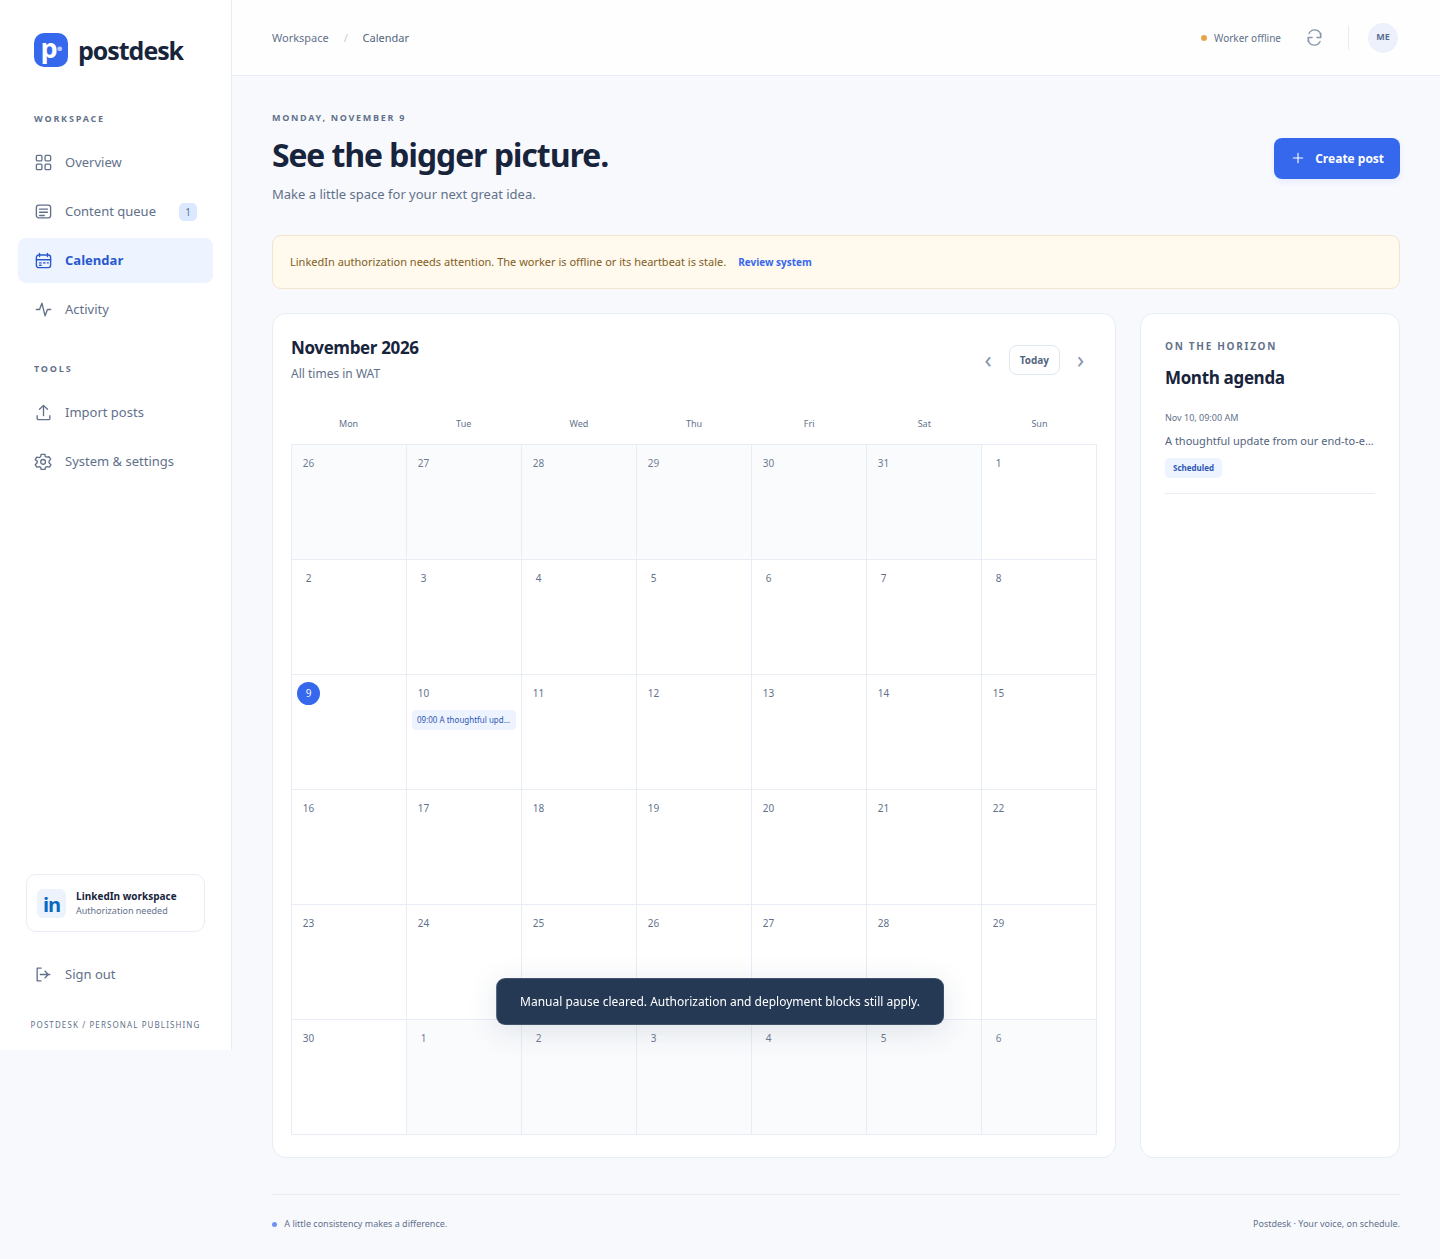
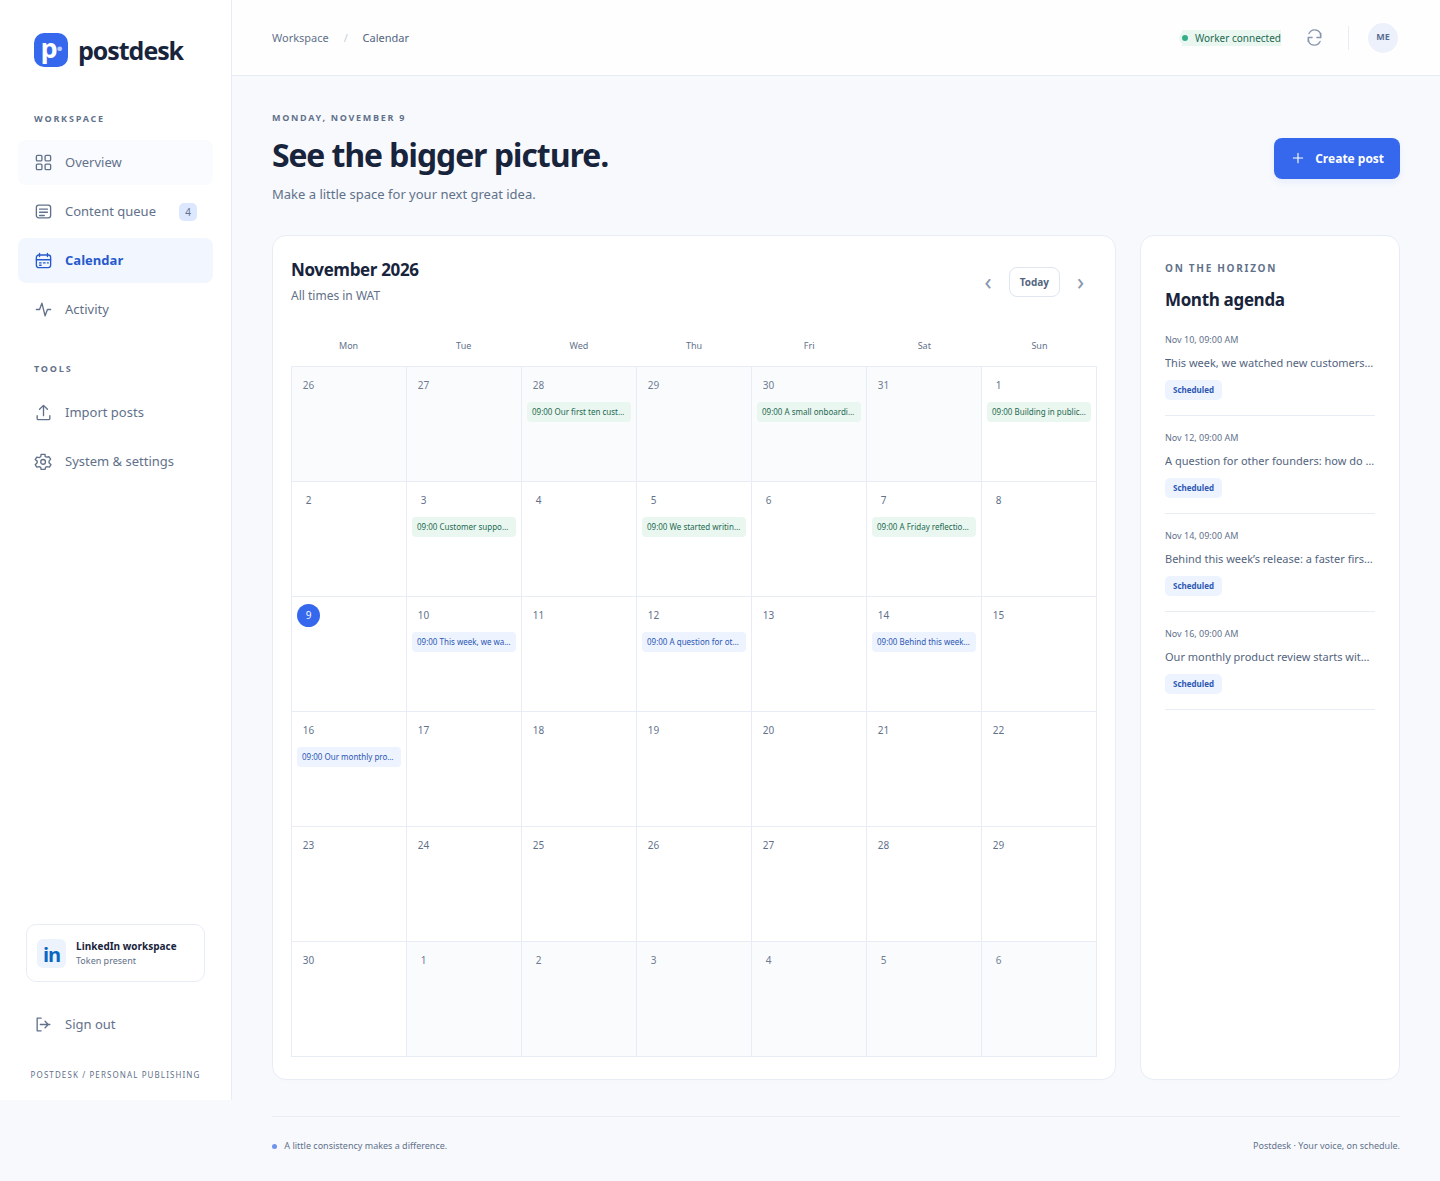
docs: refresh previews with realistic healthy demo workspace

diff --git a/scripts/capture_previews.py b/scripts/capture_previews.py
@@ -1,0 +1,117 @@
+"""Capture README screenshots using an explicitly fictional, isolated demo.
+
+Run: venv/bin/python scripts/capture_previews.py
+Requires requirements-dev.txt and Chrome/Chromium. No real token, worker,
+publishing request, or production database is used. Connection state is simulated.
+"""
+import os
+import sys
+import tempfile
+import threading
+from datetime import datetime,timedelta
+from pathlib import Path
+
+PROJECT=Path(__file__).resolve().parents[1]
+sys.path.insert(0,str(PROJECT))
+FOUNDER_POST=(
+    'This week, we watched new customers try our onboarding.\n\n'
+    'Four conversations revealed the same sticking point. So we removed two steps '
+    'and rewrote the first screen.\n\n'
+    'A useful reminder: the next improvement might already be in your support inbox.\n\n'
+    'What have your customers taught you this week?'
+)
+
+
+def main():
+    from playwright.sync_api import sync_playwright,expect
+    with tempfile.TemporaryDirectory(prefix='postdesk-preview-') as folder:
+        runtime=Path(folder)
+        os.environ.update(APP_ENV_FILE=str(runtime/'.env'),APP_DATA_DIR=str(runtime/'data'),
+            APP_MEDIA_DIR=str(runtime/'media'),APP_LOG_DIR=str(runtime/'logs'),APP_BACKUP_DIR=str(runtime/'backups'),
+            DB_PATH=str(runtime/'data/posts.db'),TOKEN_PATH=str(runtime/'data/token.json'),
+            APP_PASSWORD='isolated-demo-password',COOKIE_SECURE='false',RESEND_API_KEY='',SMTP_HOST='',ALERT_TO='')
+        from app import config,db,linkedin
+        from app.dashboard import create_app
+        from waitress import create_server
+        # Explicit demo fixture, not a credential or a claim about a real LinkedIn account.
+        linkedin.token_days_left=lambda:42
+        app=create_app()
+        now=datetime.now()
+        published=[
+            'Our first ten customer conversations changed our product roadmap. Here are the three questions we keep asking.',
+            'A small onboarding improvement we nearly overlooked: showing people their next step instead of another empty dashboard.',
+            'Building in public means sharing the small decisions too. This week, we chose clarity over one more feature.',
+            'Customer support is part of product discovery. We now review recurring questions before planning our next sprint.',
+            'We started writing release notes for the people using the product, rather than the people building it. The difference is worth the effort.',
+            'A Friday reflection: shipping a smaller improvement and learning from real use helped us make a better decision for next week.',
+        ]
+        future=[FOUNDER_POST,
+            'A question for other founders: how do you decide which customer requests deserve a place on your roadmap?',
+            'Behind this week’s release: a faster first-run experience, clearer labels, and one less setting to configure.',
+            'Our monthly product review starts with what customers found confusing. Here is how we turn those notes into improvements.']
+        with db.conn() as c:
+            for index,text in enumerate(published):
+                stamp=(now-timedelta(days=12-index*2)).replace(hour=9,minute=0,second=0).strftime(db.FMT)
+                cur=c.execute('INSERT INTO posts(text,status,scheduled_at,posted_at,created_at) VALUES(?,?,?,?,?)',
+                    (text,'posted',stamp,stamp,stamp))
+                c.execute('INSERT INTO audit_events(action,post_id,detail,actor,created_at) VALUES(?,?,?,?,?)',
+                    ('attempt.posted',cur.lastrowid,'Published to your LinkedIn profile','worker',stamp))
+            for index,text in enumerate(future):
+                stamp=(now+timedelta(days=1+index*2)).replace(hour=9,minute=0,second=0).strftime(db.FMT)
+                c.execute('INSERT INTO posts(text,status,scheduled_at) VALUES(?,?,?)',(text,'scheduled',stamp))
+            for text in ['The customer interview questions we keep coming back to.',
+                         'Three lessons from simplifying our pricing page.',
+                         'A look inside our weekly product review.']:
+                c.execute("INSERT INTO posts(text,status) VALUES(?,'draft')",(text,))
+        db.heartbeat()
+        stop=threading.Event()
+        def heartbeat():
+            while not stop.wait(1):db.heartbeat()
+        pulse=threading.Thread(target=heartbeat,daemon=True)
+        server=create_server(app,host='127.0.0.1',port=0)
+        pulse.start()
+        serving=threading.Thread(target=server.run,daemon=True);serving.start()
+        try:
+            with sync_playwright() as p:
+                chrome=os.getenv('CHROME_BIN','/usr/bin/google-chrome')
+                browser=p.chromium.launch(executable_path=chrome if Path(chrome).exists() else None,headless=True,args=['--no-sandbox'])
+                page=browser.new_page(viewport={'width':1440,'height':1100},device_scale_factor=1)
+                errors=[];page.on('pageerror',lambda e:errors.append(str(e)))
+                page.goto(f'http://127.0.0.1:{server.effective_port}')
+                page.locator('#password').fill(config.APP_PASSWORD)
+                page.locator('#login-form button').click()
+                expect(page.locator('#workspace')).to_be_visible()
+                expect(page.locator('#stat-posted')).to_have_text('6')
+                # Keep the illustrative activity feed focused on publishing, not this capture login.
+                with db.conn() as c:
+                    c.execute("DELETE FROM audit_events WHERE action LIKE 'session.%'")
+                page.locator('#refresh').click()
+                expect(page.locator('#recent-events .event-row').first).to_contain_text('Post published')
+                expect(page.locator('#worker-indicator')).to_have_text('Worker connected')
+                expect(page.locator('#worker-badge')).to_have_text('online')
+                expect(page.locator('#notice')).to_be_hidden()
+                expect(page.locator('#stat-posted')).to_have_text('6')
+                expect(page.locator('#stat-scheduled')).to_have_text('4')
+                expect(page.locator('#stat-draft')).to_have_text('3')
+                expect(page.locator('#stat-attention')).to_have_text('0')
+                expect(page.locator('#next-post')).to_contain_text('Four conversations revealed the same sticking point.')
+                output=PROJECT/'docs'
+                page.screenshot(path=str(output/'dashboard-preview.png'),full_page=True)
+                page.locator('#new-post').click()
+                page.locator('#post-text').fill(FOUNDER_POST)
+                expect(page.locator('#preview-text')).to_have_text(FOUNDER_POST)
+                page.screenshot(path=str(output/'composer-preview.png'),full_page=True)
+                page.once('dialog',lambda dialog:dialog.accept())
+                page.locator('#close-editor').click()
+                page.locator('.nav-item[data-view="calendar"]').click()
+                expect(page.locator('.calendar-day')).to_have_count(42)
+                page.screenshot(path=str(output/'calendar-preview.png'),full_page=True)
+                assert not errors,errors
+                browser.close()
+                print('Captured healthy demo overview (6 published / 4 scheduled / 3 drafts), founder-style composer, and calendar. No external API calls or live data.')
+        finally:
+            stop.set();pulse.join(timeout=5)
+            server.close();serving.join(timeout=5)
+
+
+if __name__=='__main__':main()

diff --git a/README.md b/README.md
@@ -7,9 +7,9 @@
 
 Postdesk is a self-hosted, single-owner LinkedIn publishing workspace. It pairs a responsive HTML/CSS/JavaScript dashboard with a separate Python worker, so managing your content and publishing it do not depend on keeping a browser tab open.
 
-![Postdesk dashboard with scheduled posts, worker status, and activity history](docs/dashboard-preview.png)
+![Postdesk demo dashboard with a connected worker, six sample published posts, and an upcoming founder update](docs/dashboard-preview.png)
 
-*Screenshots use test content. Counts shown are publishing records, not LinkedIn engagement analytics.*
+*Illustrative demo workspace with sample posts and simulated connection health. Publishing counts are sample data, not live account activity or engagement analytics.*
 
 [Quick start](#quick-start-linux) · [Features](#features) · [Email alerts](#email-alerts-with-resend) · [Operations guide](docs/OPERATIONS.md) · [API reference](docs/API.md) · [License](LICENSE)
 
@@ -234,6 +234,8 @@ Tests use isolated storage and mocked external requests; they do not publish rea
 venv/bin/pip install -r requirements-dev.txt
 venv/bin/python tests/browser_smoke.py
 ```
+
+To regenerate the documentation screenshots with realistic sample posts and simulated connection health, run `venv/bin/python scripts/capture_previews.py`. It uses temporary storage and never publishes to LinkedIn.
 
 The browser script uses `/usr/bin/google-chrome` when available. Set `CHROME_BIN` to another Chromium executable or install Playwright Chromium with `venv/bin/playwright install chromium`.
 

diff --git a/docs/VERIFICATION.md b/docs/VERIFICATION.md
@@ -31,7 +31,7 @@ First managed installation has no previous managed release. Its pre-migration sn
 
 ## Screenshots
 
-These screenshots contain generated test posts, not live queue data.
+These screenshots show an illustrative demo workspace with realistic sample posts and simulated healthy connection status, not live queue data. Regenerate them with `venv/bin/python scripts/capture_previews.py`; no production data, real token, or LinkedIn publishing call is used.
 
 - [Dashboard](dashboard-preview.png)
 - [Composer](composer-preview.png)
